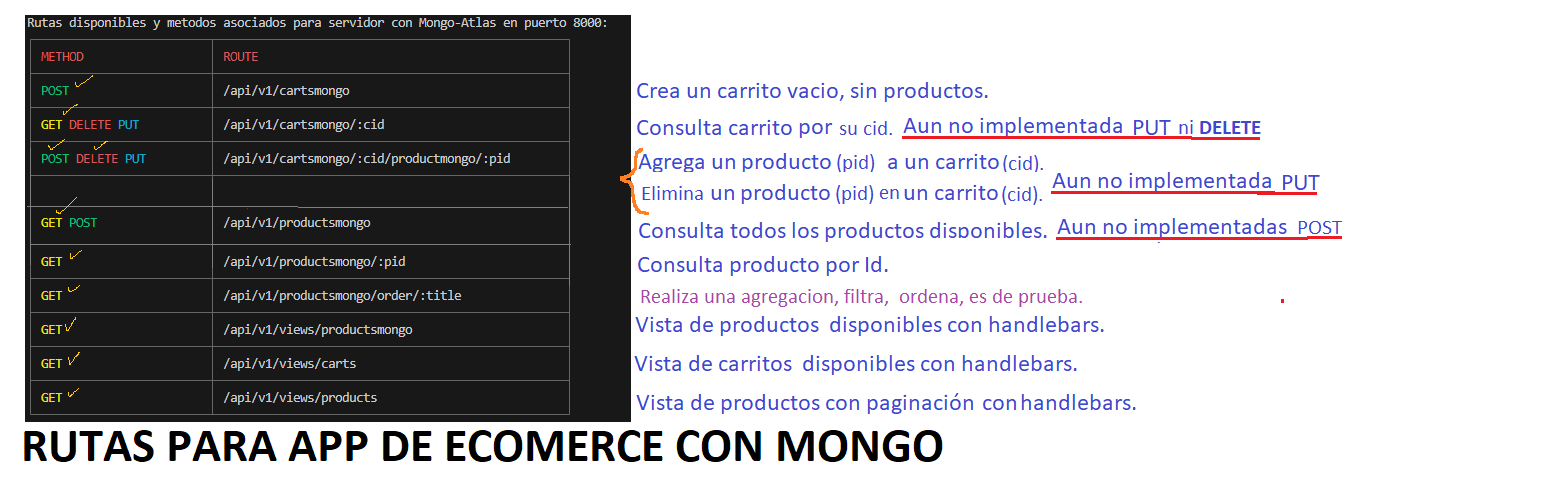
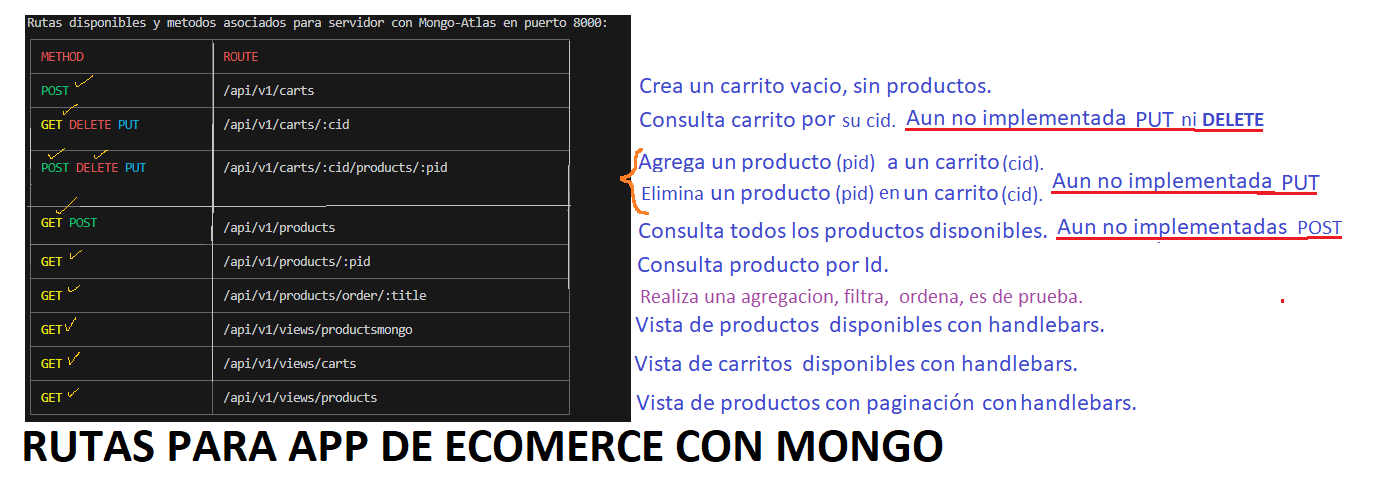
Cambiadas todas las rutas faltantes a products  y carts porque asi la piden

diff --git a/src/routes/cartsMongo.router.js b/src/routes/cartsMongo.router.js
@@ -8,7 +8,7 @@ const { ObjectId } = Types;
 
 
 class CartsMongoRoutes {
-  path = "/cartsmongo";
+  path = "/carts";
   router = Router();
   cartMongoManager = new CartMongoManager();
 
@@ -88,7 +88,7 @@ class CartsMongoRoutes {
     //******  POST DE /api/v1/cartsmongo/:cid/productMongo/:produtMongoId *************
     //*************************************************************************************
     //*************************************************************************************
-    this.router.post(`${this.path}/:cid/productmongo/:pid`, async (req, res) => {
+    this.router.post(`${this.path}/:cid/products/:pid`, async (req, res) => {
       // return res.json({ message: `cartsMongo POST no implementado aun` });
       try {
         // TODO: HACER VALIDACIONES 
@@ -180,7 +180,7 @@ class CartsMongoRoutes {
     //******  PUT DE /api/v1/cartsmongo/:cid/productMongo/:produtMongoId   ************
     //*************************************************************************************
     //*************************************************************************************
-    this.router.delete(`${this.path}/:cid/productmongo/:pid`, async (req, res) => {
+    this.router.delete(`${this.path}/:cid/products/:pid`, async (req, res) => {
       try{
         const { cid, pid } = req.params;
         const cart = await cartsMongoModel.findById({_id: cid});
@@ -248,7 +248,7 @@ class CartsMongoRoutes {
     //******  PUT DE /api/v1/cartsmongo/:cid/productMongo/:produtMongoId **********************************
     //*************************************************************************************
     //*************************************************************************************
-    this.router.put(`${this.path}/:cid/productmongo/:pid`, async (req, res) => {
+    this.router.put(`${this.path}/:cid/products/:pid`, async (req, res) => {
       try{
         const { cid, pid } = req.params;
 

diff --git a/src/routes/viewsMongo.router.js b/src/routes/viewsMongo.router.js
@@ -86,10 +86,10 @@ class ViewsMongoRoutes {
         hasPrevPage:hasPrevPage,
         hasNextPage:hasNextPage,
         prevLink: hasPrevPage
-        ? `http://localhost:${PORT}/api/${API_VERSION}/productsmongopage?limit=${limit}&page=${prevPage}`
+        ? `http://localhost:${PORT}/api/${API_VERSION}/products?limit=${limit}&page=${prevPage}`
         : null,
       nextLink: hasNextPage
-        ? `http://localhost:${PORT}/api/${API_VERSION}/productsmongopage?limit=${limit}&page=${nextPage}`
+        ? `http://localhost:${PORT}/api/${API_VERSION}/products?limit=${limit}&page=${nextPage}`
         : null,
         //prevLink: Link directo a la página previa (null si hasPrevPage=false),
         //nextLink:Link directo a la página siguiente (null si hasNextPage=false),

diff --git a/src/routes/productsMongo.router.js b/src/routes/productsMongo.router.js
@@ -6,7 +6,7 @@ import productsMongoData from "../db/productsMongo.js";
 import ProductMongoManager from "../dao/managers/productMongo.manager.js";
 
 class ProductsMongoRoutes {//no es un Router pero adentro tiene uno
-  path = "/productsmongo";
+  path = "/products";
   router = Router();
   productMongoManager = new ProductMongoManager();
 

diff --git a/Readme.md b/Readme.md
@@ -9,7 +9,7 @@
  <h2>Ejemplos de rutas:</h2>
 
         Para obtener todos los productos detalladamemnte (formato JSON):
-        http://localhost:8000/api/v1/productsmongo/
+        http://localhost:8000/api/v1/products/
 
         Para ver resumen de todos los carritos
         http://localhost:8000/api/v1/views/carts/
@@ -33,7 +33,7 @@ Deberás entregar el proyecto que has venido armando, cambiando persistencia en 
 
 ### Formato
 
-- Link al repositorio de Github con el proyecto completo, sin la carpeta de Node_modules. ((Hecho)).
+- Link al repositorio de Github con el proyecto completo, sin la carpeta de node_modules. ((Hecho)).
 
 ### Sugerencias
 
@@ -116,7 +116,7 @@ Deberás entregar el proyecto que has venido armando, cambiando persistencia en 
 # Rutas productos con Mongo:
 
 -  Ver imagen en archivo raíz.
--  /api/v1/productsmongo/insertion GET (esta comentada)
+-  /api/v1/products/insertion GET (esta comentada)
 
 # Rutas de  views (carritos y productos) con Mongo: 
 
